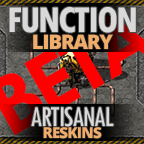
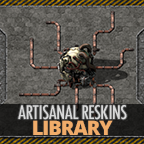
Rename mod, update thumbnail, improve description.

diff --git a/README.md b/README.md
@@ -1,4 +1,4 @@
-# Artisanal Reskins: Function Library
+# Artisanal Reskins: Library
 
 This mod serves as the core of the Artisanal Reskin series of mods. Currently, that means Bob's mods, but support for Angel's mods is planned.
 
